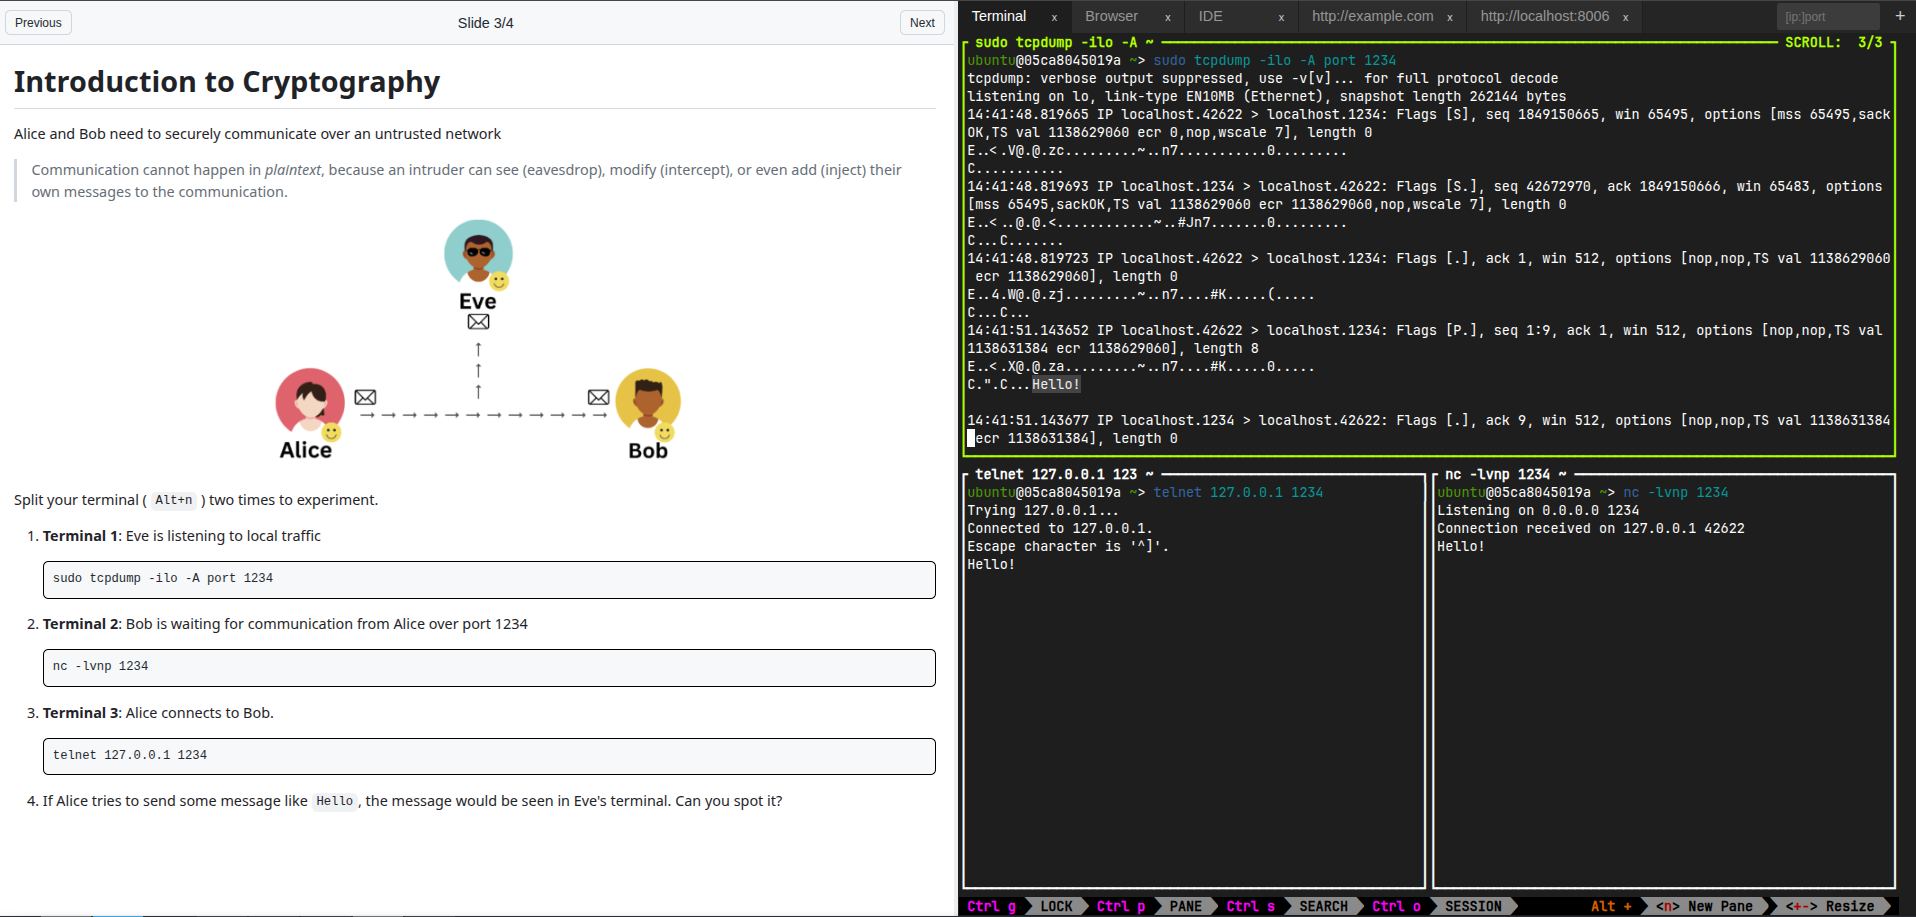
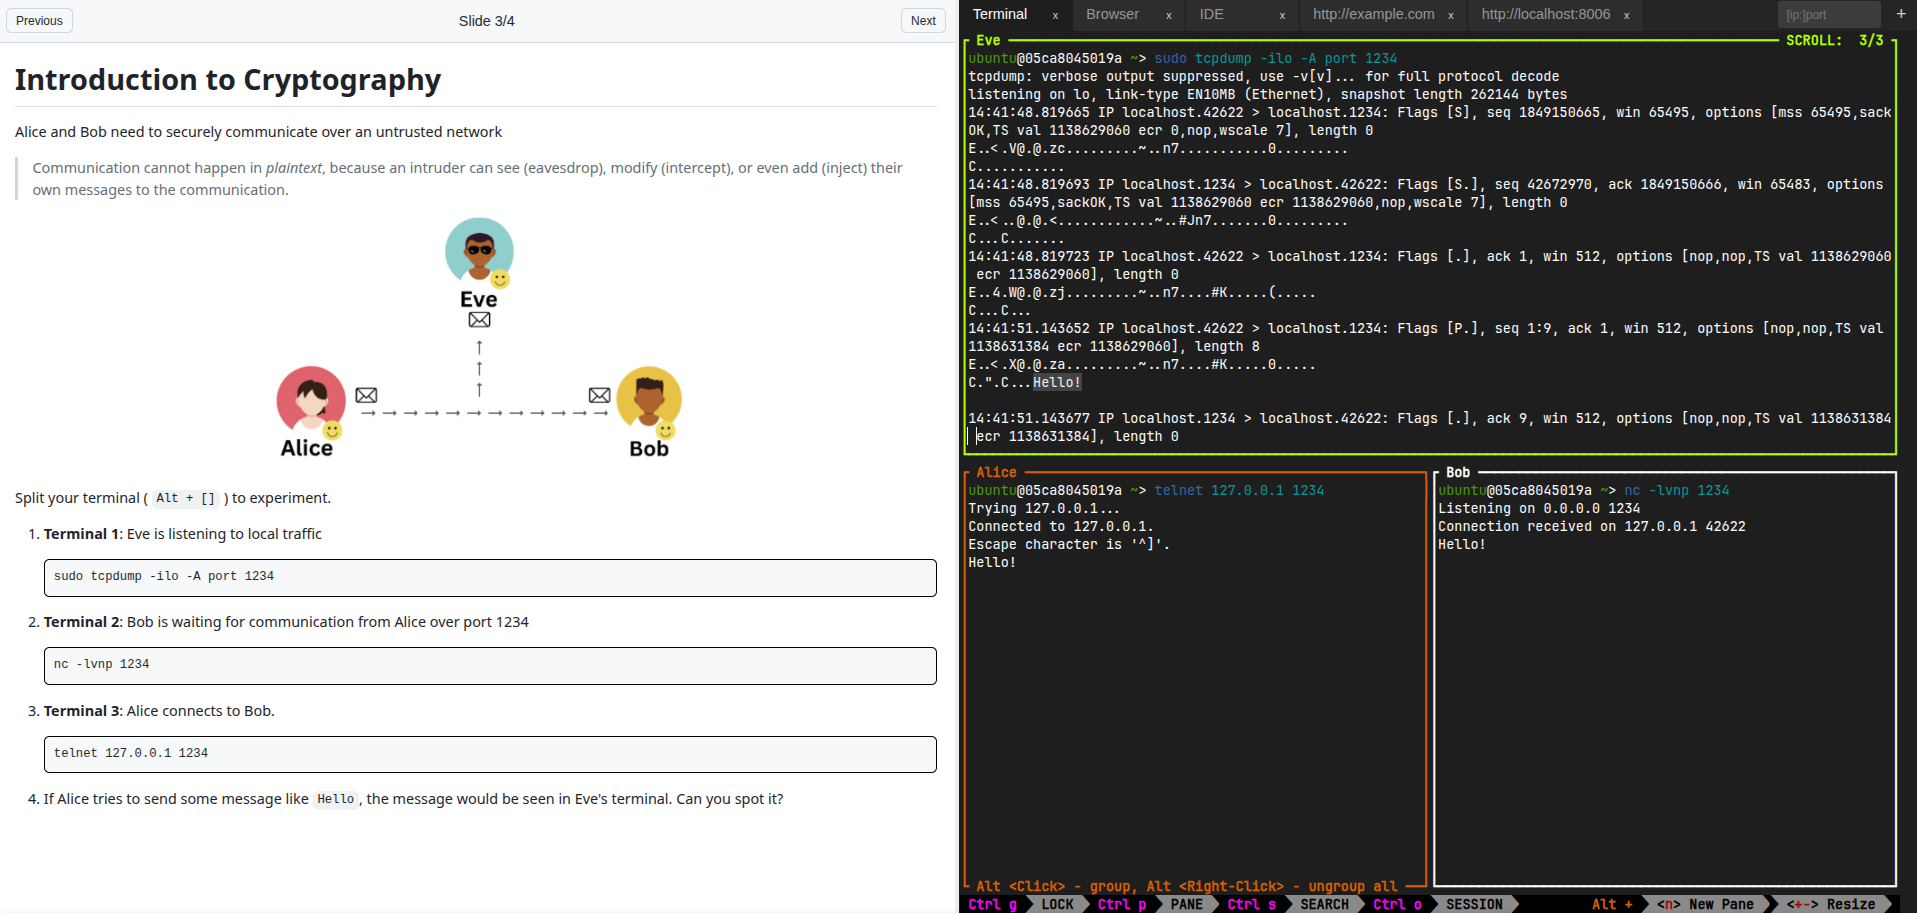
Update sample workshop

diff --git a/workshop/03.md b/workshop/03.md
@@ -1,1 +1,17 @@
-# Slide
+# Applications
+
+One can be dynamically launch containers in the environment.
+
+1. Example command: run an nginx server
+
+    ```bash
+    docker run --rm -it -p80:80 --name nginx --network lab_net nginx:alpine
+    ```
+
+1. Write `80` in the input field and click `+` to open it in a new tab.
+
+1. Server is also reachable from other containers in the `lab_net` (e.g., the browser) by name
+
+    ```bash
+    ping http://nginx:80
+    ```

diff --git a/workshop/02.md b/workshop/02.md
@@ -6,7 +6,7 @@ Alice and Bob need to securely communicate over an untrusted network
 
 <p align="center"> <img src="image.png" /></p>
 
-Split your terminal ( `Alt+n` ) two times to experiment.
+Split your terminal ( `Alt + []` ) to experiment.
 
 1. **Terminal 1**: Eve is listening to local traffic
 
